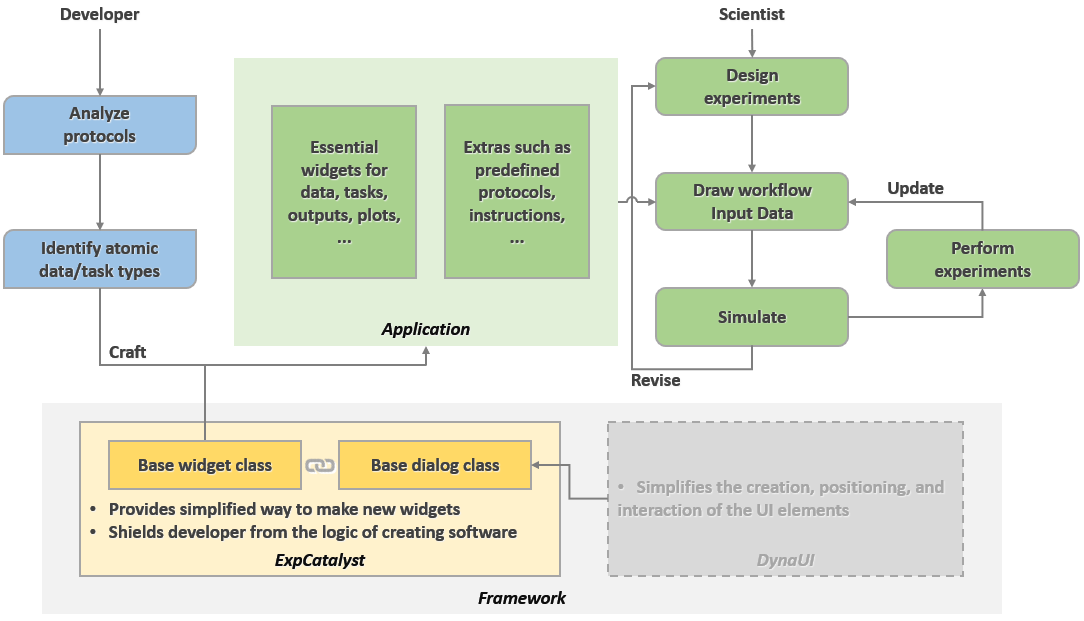
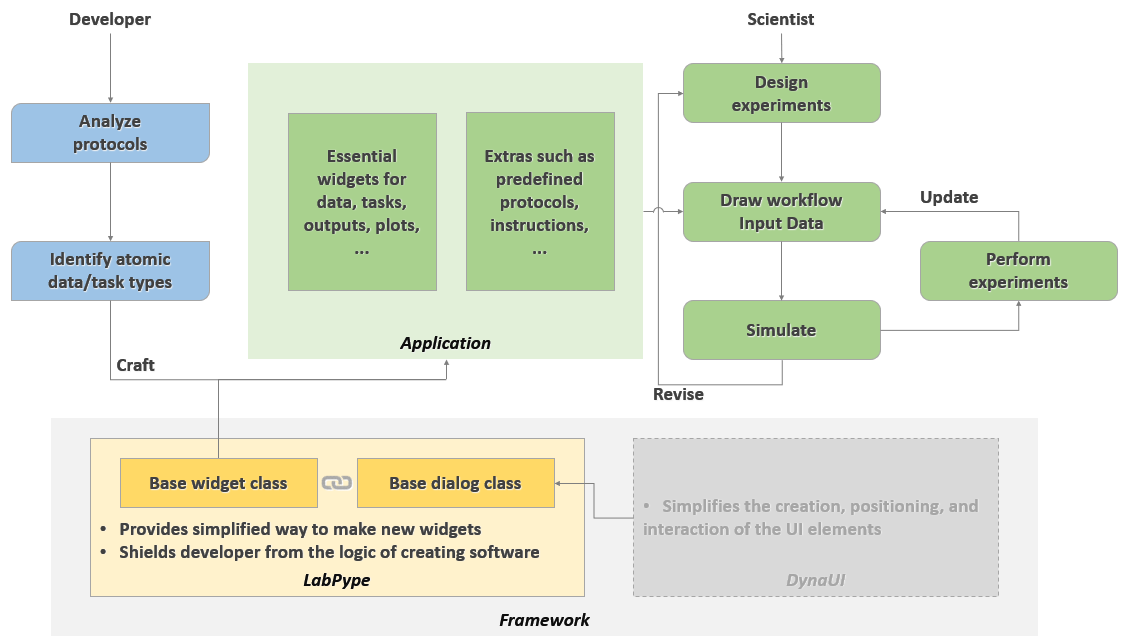
change name

diff --git a/labpype/app.py b/labpype/app.py
@@ -16,7 +16,7 @@ __all__ = ["App"]
 class App(wx.App):
     def __init__(self, path=None):
         super().__init__(redirect=0, useBestVisual=True)
-        self.path = path or os.path.join(wx.GetHomeDir(), ".pineapple")  # TODO
+        self.path = path or os.path.join(wx.GetHomeDir(), ".labpype")
 
     def Start(self):
         m = Manager(self.path)

diff --git a/demo/demo.py b/demo/demo.py
@@ -1,9 +1,9 @@
 # -*- coding: utf-8 -*-
 
 import os
-import expcatalyst
+import labpype
 
 # Create an application
-App = expcatalyst.App(path=os.path.dirname(os.path.realpath(__file__)))
+App = labpype.App(path=os.path.dirname(os.path.realpath(__file__)))
 # Start the application using the current folder as the application directory
 App.Start()

diff --git a/labpype/main/locale.py b/labpype/main/locale.py
@@ -5,7 +5,7 @@ from DynaUI import Locale
 __all__ = ["Locale"]
 
 Locale.DEFAULT = {
-    "TITLE"               : "ExpCatalyst",
+    "TITLE"               : "LabPype",
 
     "GROUP_NONE"          : "---- Not grouped ----",  # value is used as a key for widget group
     "GROUP_NEW"           : "New Group",

diff --git a/labpype/__init__.py b/labpype/__init__.py
@@ -10,7 +10,7 @@ if __name__ == "__main__":
     path = os.path.join(os.path.dirname(os.path.realpath(__file__)), "..")
     if path not in sys.path:
         sys.path.append(path)
-    from expcatalyst.app import App
+    from labpype.app import App
 
     App().Start()
 else:
